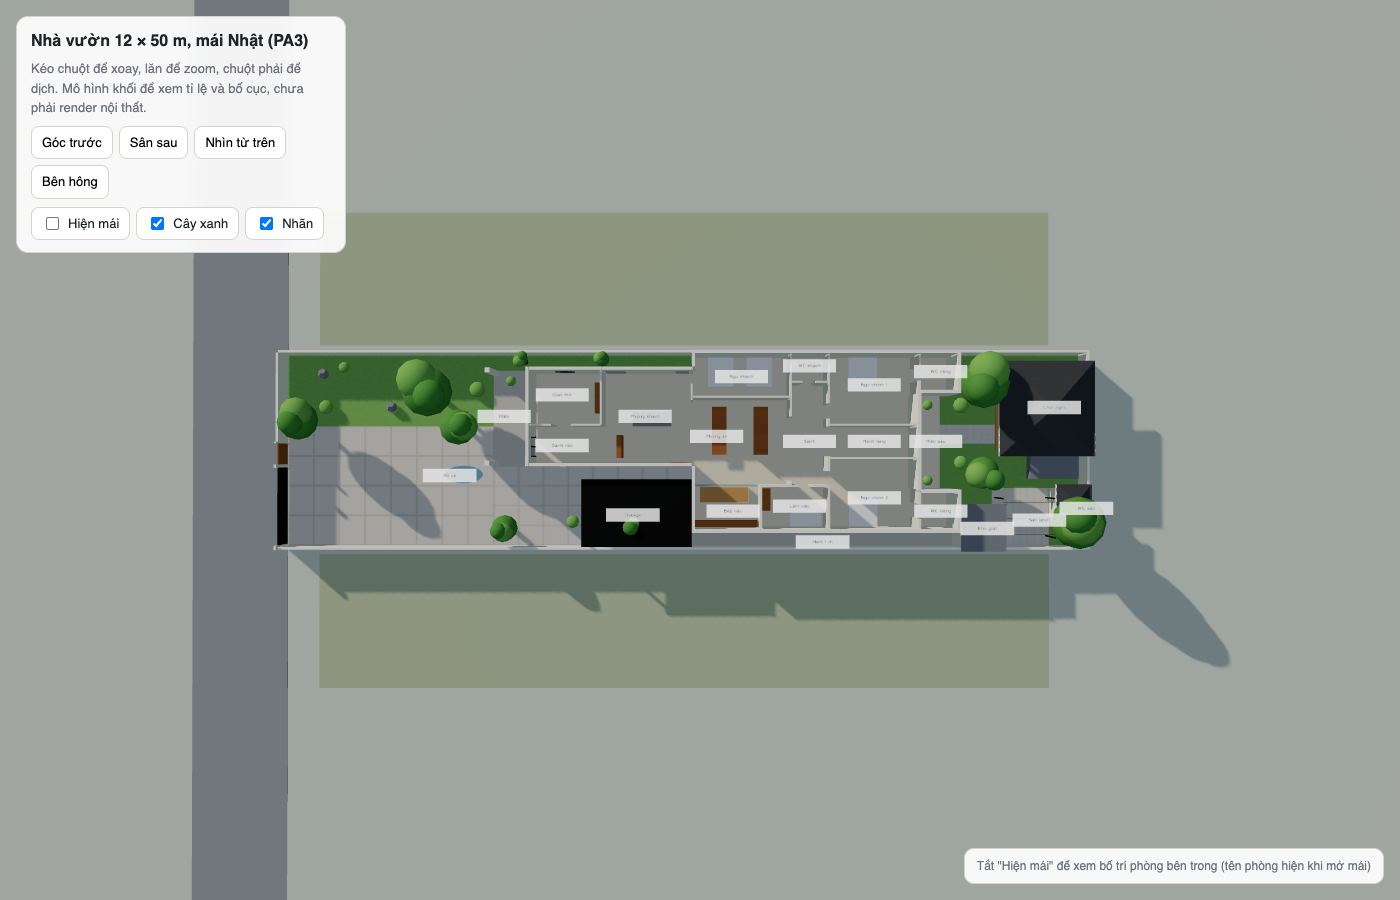
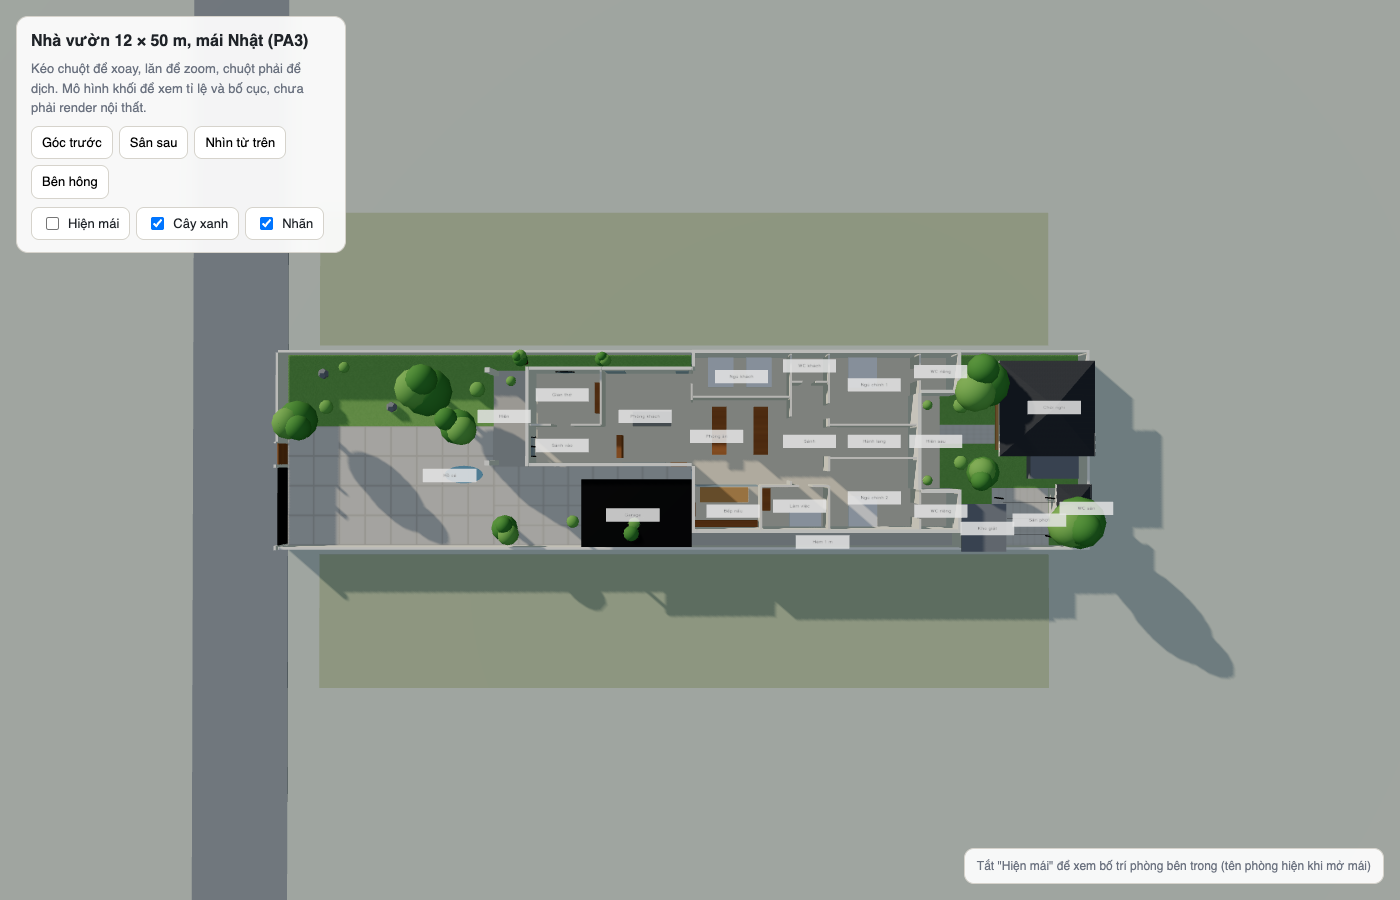
Chậu rửa 2 hố lệch 1,16 m, cửa phụ bếp ra garage, cập nhật dự toán

diff --git a/mat-bang-nha-12x50.html b/mat-bang-nha-12x50.html
@@ -83,7 +83,7 @@
       <h2 style="margin-top:0">Ý đồ thiết kế</h2>
       <ul>
         <li><b>Gian trước 6 × 12,5 m</b>, cách ranh trái 1 m, bên phải chừa sân 5 m. Hiên 2,5 m, rồi gian thờ 3,5 × 4,5 m bên trái là phòng đầu tiên của nhà, sảnh vào 2,5 × 4,5 m bên phải có cửa chính 1,2 m và tủ giày. Sau đó là phòng khách 6 × 5,5 m: sofa quay về kệ TV tường trái, vách lam gỗ phía sau sảnh vào chắn tầm nhìn xuyên nhà, cửa kính lớn bên phải nhìn ra sân. Góc trái cuối phòng khách có cửa vào phòng ngủ khách. Góc phải cuối phòng khách có cửa phụ 1 m ra garage có mái che. Bàn thờ đặt sát tường trong nhìn thẳng ra đường, có cửa sổ tròn bên hông và ô lam gỗ phía trước. Toàn bộ gian trước không có WC.</li>
-        <li><b>Gian ngang 11 × 13,8 m</b> chừa hẻm 1 m bên phải. Giữa nhà là phòng ăn 5,4 × 6 m dưới giếng trời. Bên trái là phòng ngủ khách 6 × 2,8 m, 2 giường đôi 1,6 × 2 m kê ngang phòng, đầu cả hai giường tựa tường ranh trái là tường đặc, không cửa sổ, không giáp WC. Chân giường quay về tường phòng ăn, không hướng ra cửa, cửa sổ hay WC. Lối đi cuối giường 0,75 m, tab đầu giường dùng chung ở giữa. Cửa sổ tường trước nâng cao, mép dưới 1,9 m, để không nằm ngay sau đầu giường. Cửa phòng mở từ phòng khách, ở góc trái đầu phòng, vào cửa là thấy cạnh dài giường chứ không đụng chân giường. Tủ áo đặt cạnh cửa. Có giếng trời nhỏ 0,8 × 0,6 m trên lối đi vì cửa sổ tường trước giờ chỉ còn 0,7 m. Bên phải là bếp nấu 2,8 × 4,2 m tựa tường hẻm, ngăn với phòng ăn bằng vách kính lùa và đảo 3 m, có cửa phụ ra hẻm. Sau bếp nấu là phòng làm việc 2,8 × 4,1 m, có bàn làm việc và 1 giường đơn cho người ngủ lại. Hàng giữa: WC khách mở cửa ra sảnh, rồi sảnh. Hàng sau: ngủ chính 1 và 2 mỗi phòng 5,5 × 4,5 m, 24,8 m² trọn vẹn, cửa mở từ sảnh chính. Giữa hai phòng là hành lang rộng 2 m, cuối có cửa 2 cánh 1,6 m ra hiên sau. Đây là lối chính trong nhà đi ra sân sau, đủ rộng để bưng đồ ăn ra chòi khi có tiệc.</li>
+        <li><b>Gian ngang 11 × 13,8 m</b> chừa hẻm 1 m bên phải. Giữa nhà là phòng ăn 5,4 × 6 m dưới giếng trời. Bên trái là phòng ngủ khách 6 × 2,8 m, 2 giường đôi 1,6 × 2 m kê ngang phòng, đầu cả hai giường tựa tường ranh trái là tường đặc, không cửa sổ, không giáp WC. Chân giường quay về tường phòng ăn, không hướng ra cửa, cửa sổ hay WC. Lối đi cuối giường 0,75 m, tab đầu giường dùng chung ở giữa. Cửa sổ tường trước nâng cao, mép dưới 1,9 m, để không nằm ngay sau đầu giường. Cửa phòng mở từ phòng khách, ở góc trái đầu phòng, vào cửa là thấy cạnh dài giường chứ không đụng chân giường. Tủ áo đặt cạnh cửa. Có giếng trời nhỏ 0,8 × 0,6 m trên lối đi vì cửa sổ tường trước giờ chỉ còn 0,7 m. Bên phải là bếp nấu 2,8 × 4,2 m tựa tường hẻm, ngăn với phòng ăn bằng vách kính lùa và đảo 3 m, có cửa phụ mở ra đuôi garage để xách đồ từ xe vào thẳng bếp. Sau bếp nấu là phòng làm việc 2,8 × 4,1 m, có bàn làm việc và 1 giường đơn cho người ngủ lại. Hàng giữa: WC khách mở cửa ra sảnh, rồi sảnh. Hàng sau: ngủ chính 1 và 2 mỗi phòng 5,5 × 4,5 m, 24,8 m² trọn vẹn, cửa mở từ sảnh chính. Giữa hai phòng là hành lang rộng 2 m, cuối có cửa 2 cánh 1,6 m ra hiên sau. Đây là lối chính trong nhà đi ra sân sau, đủ rộng để bưng đồ ăn ra chòi khi có tiệc.</li>
         <li><b>Hai WC riêng 2,4 × 2,6 m</b> nhô ra phía hiên sau, nằm trong mép mái đua sẵn có nên không phải làm thêm mái. Mỗi WC có ba mặt ngoài, cửa sổ hai phía, rất thoáng. Hiên sau thu lại còn 5,8 m nằm giữa hai WC, thành một góc ngồi kín đáo hơn. Mỗi phòng master có cửa kính ra thẳng hiên.</li>
         <li><b>4 WC</b>: WC riêng 1 và 2 cho hai phòng ngủ chính, nhô ra phía hiên sau. WC khách 2,3 × 1,9 m đứng riêng, cửa mở ra sảnh, khách và cả nhà đều dùng được. WC sân vườn 2 × 2,2 m cạnh chòi và BBQ, dùng khi tiệc ngoài trời. Không WC nào nằm giữa nhà hay gần gian thờ.</li>
         <li><b>Hẻm 1 m</b> chạy từ sân bên phải gian trước ra thẳng sân sau. Đủ cho người đi lại thoải mái, mang đồ, đẩy xe rác hoặc máy cắt cỏ ra sau mà không phải đi xuyên nhà. Dắt xe máy thì hơi chật, cần khoảng 1,2 m.</li>
@@ -126,7 +126,7 @@
         <tr><td>Gian thờ</td><td>Bàn thờ gỗ nguyên khối kiểu phẳng 2 × 0,6 m, vách sau ốp gỗ hoặc tấm CNC đơn giản, tủ thấp hai bên</td><td>Đèn vàng ấm hắt vách, cửa sổ tròn lấy sáng, không hoa văn cầu kỳ</td></tr>
         <tr><td>Sảnh vào</td><td>Tủ giày âm tường, ghế băng gỗ, gương</td><td>Sàn đá xám nhạt để phân biệt với sàn gỗ phòng khách</td></tr>
         <tr><td>Phòng khách</td><td>Sofa 3 chỗ vải xám, bàn trà tròn gỗ, kệ TV thấp treo tường, góc đọc sách 2 ghế bành cạnh cửa kính bên trái</td><td>Mảng tường TV ốp gỗ sồi hoặc sơn hiệu ứng bê tông, không kệ trang trí</td></tr>
-        <tr><td>Bếp + ăn</td><td>Bếp nấu chữ I dọc tường hẻm, bếp lửa và chậu rửa cách nhau 1 m trên cùng một mặt, tủ lạnh cuối dãy; đảo 3 × 0,9 m làm quầy buffet; 2 bàn ăn gỗ sồi 3 × 0,9 m giống hệt nhau, tổng 16 ghế (ghế xếp gọn được thì tốt)</td><td>Cánh tủ phẳng trắng kem, mặt đá thạch anh trắng liền khối, hút mùi âm đảo, đèn thả 3 bóng trên đảo</td></tr>
+        <tr><td>Bếp + ăn</td><td>Bếp nấu chữ I dài 4 m dọc tường hẻm, mặt đá sâu 60 cm. Từ cửa vào: chậu inox 2 hố lệch dài 1,16 m (hố lớn 76 × 45 cm, sâu 25 cm, đặt nằm được chảo 32 cm và khay nướng; hố nhỏ 33 cm để rửa rau, tráng ly), đặt dưới cửa sổ, vòi rút dây, tủ dưới chậu 1,2 m có thùng rác phân loại; mặt sơ chế 0,9 m; bếp từ 70 cm; tủ lạnh cuối dãy; đảo 3 × 0,9 m làm quầy buffet; 2 bàn ăn gỗ sồi 3 × 0,9 m giống hệt nhau, tổng 16 ghế (ghế xếp gọn được thì tốt)</td><td>Cánh tủ phẳng trắng kem, mặt đá thạch anh trắng liền khối, hút mùi âm đảo, đèn thả 3 bóng trên đảo</td></tr>
         <tr><td>Ngủ chính 1, 2</td><td>Giường 1,8 m bệt thấp, tủ âm tường kịch trần, 2 tab đầu giường, WC riêng 2,2 × 2,4 có sen đứng kính</td><td>Đèn thả 2 bên thay đèn bàn, rèm 2 lớp màu xám nhạt</td></tr>
         <tr><td>Phòng khách ngủ, phòng làm việc</td><td>Phòng khách ngủ: 2 giường đôi 1,6 m. Phòng làm việc: bàn 1,4 m, ghế, giường đơn 1 m, kệ sách treo tường</td><td>Cùng một bộ vật liệu để nhà đồng bộ</td></tr>
         <tr><td>WC (4 phòng)</td><td>Gạch lớn 60×120 xám nhạt, lavabo đặt bàn, gương tròn</td><td>Vòi sen đen mờ, kính cường lực không khung, quạt hút + cửa sổ</td></tr>
@@ -143,7 +143,7 @@
       <tbody>
         <tr><td>Bếp không đặt ở giữa nhà (trung cung)</td><td><b>Đã sửa</b></td><td>Tâm nhà giờ là phòng ăn dưới giếng trời. Bếp nấu dời sang góc phải, tựa tường hẻm.</td></tr>
         <tr><td>Bếp không đối diện cửa chính</td><td>Đạt</td><td>Bếp nấu lệch hẳn sang phải, từ cửa chính không nhìn thấy bếp lửa.</td></tr>
-        <tr><td>Lửa và nước không đối diện nhau</td><td>Đạt</td><td>Bếp lửa và chậu rửa cùng một mặt tủ, cách nhau 1 m. Đảo bếp không đặt bếp hay chậu.</td></tr>
+        <tr><td>Lửa và nước không đối diện nhau</td><td>Đạt</td><td>Bếp lửa và chậu rửa cùng một mặt tủ, cách nhau 0,9 m. Bếp lửa đặt xa cửa phụ để gió không lùa vào lửa. Đảo bếp không đặt bếp hay chậu.</td></tr>
         <tr><td>Bàn thờ tránh WC, bếp, không đặt sau phòng ngủ</td><td>Đạt</td><td>Sau lưng bàn thờ là phòng khách. WC gần nhất cách hơn 11 m.</td></tr>
         <tr><td>Bàn thờ không nhìn thẳng ra cửa sổ lớn</td><td><b>Đã sửa</b></td><td>Cửa sổ trước gian thờ thay bằng lam gỗ. Giữ cửa sổ tròn bên hông để lấy sáng.</td></tr>
         <tr><td>Cửa phòng thờ không đối diện cửa chính</td><td>Đạt</td><td>Cửa phòng thờ mở vuông góc với cửa chính.</td></tr>
@@ -178,7 +178,7 @@
         <li><b>Cửa sổ ra hẻm 1 m:</b> theo quy định chung, tường cách ranh dưới 2 m chỉ được mở cửa sổ cao (mép dưới từ 2 m) hoặc lam thoáng. Tao vẽ WC khách, ngủ 4 và WC riêng 2 theo kiểu này.</li>
         <li><b>Phòng ngủ khách</b> chỉ còn cửa sổ cao 0,7 m ở tường trước vì gian trước đã dời sát trái. Tao thêm giếng trời nhỏ để bù sáng và thoáng.</li>
         <li><b>WC khách</b> cách phòng khách khoảng 10 m (qua bếp và sảnh). Nếu muốn gần hơn thì đặt ở góc sau phải phòng khách, nhưng khi đó WC nằm cùng gian với gian thờ, tao không khuyến khích.</li>
-        <li><b>Dự toán thô</b> (giá 2026, trọn gói hoàn thiện cơ bản): nhà chính ~256 m² có mái × 7–9 triệu ≈ 1,8–2,3 tỷ. Cộng garage, hàng rào 124 m, chòi, sân vườn thêm khoảng 350–600 triệu. Con số này chỉ để định hướng.</li>
+        <li><b>Dự toán thô</b> (giá 2026, đất có sẵn, chưa tính san lấp): nhà chính khoảng 436 m² quy đổi, gồm sàn, móng 40%, mái ngói 40% và hiên 50%, được khoảng 2,1–3,0 tỷ. Cộng garage, chòi, WC sân, kho giặt, hàng rào và cổng, sân vườn, nội thất rời, thiết kế và xin phép thì tổng khoảng 2,95 tỷ (tiết kiệm), 3,7 tỷ (tiêu chuẩn), 4,7 tỷ (cao cấp). Nên dự phòng thêm 10%.</li>
       </ul>
     </div>
   </div>
@@ -316,9 +316,9 @@ const rooms=[
     [0.15,0.9,1.65,2.4].forEach(o=>{rect(g,m,d1-0.45,d1,3.3+o,3.3+o+.45,{fill:'#fff',stroke:'#a67c52',rx:2});rect(g,m,d1+0.9,d1+1.35,3.3+o,3.3+o+.45,{fill:'#fff',stroke:'#a67c52',rx:2});});
     label(g,m,d1+0.45,4.8,name,{size:9,fill:'#5b3a1a',rot:-90}); }
   table(26.75,'BÀN A · 8'); table(29.35,'BÀN B · 8');
-  rect(g,m,25.6,29.6,10.4,10.95,{fill:'#c9b27a',opacity:.8});        // tủ bếp dọc hẻm
-  rect(g,m,25.8,26.6,10.45,10.9,{fill:'#b45f2e'}); label(g,m,26.2,10.2,'bếp lửa',{size:8,fill:'#8a3b12'});
-  rect(g,m,27.6,28.4,10.45,10.9,{fill:'#7cc4ff'}); label(g,m,28.0,10.2,'chậu rửa',{size:8,fill:'#1d5f8a'});
+  rect(g,m,25.6,29.6,10.35,10.95,{fill:'#c9b27a',opacity:.8});        // tủ bếp dọc hẻm
+  rect(g,m,27.8,28.5,10.4,10.9,{fill:'#b45f2e'}); label(g,m,28.15,10.15,'bếp lửa',{size:8,fill:'#8a3b12'});
+  rect(g,m,25.75,26.51,10.42,10.9,{fill:'#7cc4ff',stroke:'#1d5f8a','stroke-width':1}); rect(g,m,26.56,26.89,10.42,10.9,{fill:'#a9d6f5',stroke:'#1d5f8a','stroke-width':1}); label(g,m,26.3,10.15,'chậu 2 hố 1,16 m',{size:8,fill:'#1d5f8a'});
   rect(g,m,29.0,29.6,10.25,10.95,{fill:'#e5e7eb',stroke:'#b8b3a8'}); 
   rect(g,m,26.0,29.0,8.35,9.25,{fill:'#d9c6a5',stroke:'#8b5a2b','stroke-width':1,rx:2}); label(g,m,27.5,8.9,'ĐẢO 3 m · buffet',{size:9,fill:'#5b3a1a'});
   function bed(d1,d2,w1,w2,head){rect(g,m,d1,d2,w1,w2,F); const h=0.35; if(head==='w0')rect(g,m,d1+0.1,d2-0.1,w1,w1+h,{fill:'#e5e7eb',rx:2}); if(head==='w1')rect(g,m,d1+0.1,d2-0.1,w2-h,w2,{fill:'#e5e7eb',rx:2}); if(head==='d1')rect(g,m,d2-h,d2,w1+0.1,w2-0.1,{fill:'#e5e7eb',rx:2}); if(head==='ds')rect(g,m,d1,d1+h,w1+0.1,w2-0.1,{fill:'#e5e7eb',rx:2});}
@@ -382,7 +382,7 @@ const rooms=[
   door(15.5,5.2,15.5,6.4);
   door(17,4.5,18.2,4.5);
   door(25.5,1.2,25.5,2.0); door(32.0,8.2,32.8,8.2);   // ngủ khách mở từ phòng khách, phòng làm việc
-  door(26.8,11.0,27.4,11.0);                                 // cửa phụ bếp ra hẻm
+  door(25.5,9.3,25.5,10.1);                                  // cửa phụ bếp ra garage
   win(25.7,8.2,29.5,8.2);                                    // vách kính lùa bếp nấu
   door(32.2,1.9,33.0,1.9);
   door(33.8,3.2,33.8,4.1); door(33.8,7.3,33.8,8.2);       // cửa 2 master từ sảnh
@@ -393,8 +393,8 @@ const rooms=[
   label(g,m,21.6,5.8,'lam gỗ',{size:8,fill:'#8b5a2b',rot:-90});
   el('circle',{cx:m.x(17.7),cy:m.y(1.0),r:.55*m.S,fill:'#fff',stroke:'#7cc4ff','stroke-width':3},g);
   win(21.3,7.0,23.9,7.0); door(24.2,7.0,25.2,7.0);   // cửa phụ từ garage win(20.2,1.0,21.4,1.0); win(24.5,1.0,25.3,1.0); win(25.5,7.2,25.5,8.0);
-  el('line',{x1:m.x(25.5),y1:m.y(0.15),x2:m.x(25.5),y2:m.y(0.85),stroke:'#7cc4ff','stroke-width':5,'stroke-dasharray':'4 2'},g); label(g,m,25.1,0.5,'cửa sổ cao',{size:8,fill:'#1d5f8a',rot:-90}); win(25.5,9.5,25.5,10.8);
-  win(27.8,11.0,29.2,11.0); win(30.6,11.0,31.4,11.0); win(32,11.0,33.2,11.0); win(37.4,11.0,38.8,11.0); win(40.0,11.0,41.2,11.0);
+  el('line',{x1:m.x(25.5),y1:m.y(0.15),x2:m.x(25.5),y2:m.y(0.85),stroke:'#7cc4ff','stroke-width':5,'stroke-dasharray':'4 2'},g); label(g,m,25.1,0.5,'cửa sổ cao',{size:8,fill:'#1d5f8a',rot:-90}); win(25.5,10.3,25.5,10.9);
+  win(25.8,11.0,26.9,11.0); win(30.6,11.0,31.4,11.0); win(32,11.0,33.2,11.0); win(37.4,11.0,38.8,11.0); win(40.0,11.0,41.2,11.0);
   win(41.7,0.5,41.7,2.1); win(41.7,8.9,41.7,10.5); win(40.0,2.6,40.9,2.6); win(40.0,8.4,40.9,8.4);   // cửa sổ WC riêng
   win(39.3,2.9,39.3,4.3); win(39.3,6.7,39.3,8.1);   // cửa kính master ra hiên
 

diff --git a/3d-nha-12x50.html b/3d-nha-12x50.html
@@ -184,8 +184,8 @@ box(39.3-T,39.3,2.6,8.4,0,H,M.wall,house);
 box(39.3,41.7,2.6-T,2.6,0,H,M.wall,house); box(41.7-T,41.7,0,2.6,0,H,M.wall,house); box(39.3,41.7,8.4,8.4+T,0,H,M.wall,house); box(41.7-T,41.7,8.4,11.0,0,H,M.wall,house);
 function win(d,w1,w2,y0=0.9,y1=2.4){box(d-0.03,d+0.03,w1,w2,y0,y1,M.glass,house,false);box(d-0.04,d+0.04,w1,w1+0.05,y0,y1,M.black,house,false);box(d-0.04,d+0.04,w2-0.05,w2,y0,y1,M.black,house,false);}
 function winZ(w,d1,d2,y0=2.0,y1=2.7){box(d1,d2,w-0.03,w+0.03,y0,y1,M.glass,house,false);}
-win(25.5,0.15,0.85,1.9+0.15,2.6+0.15); win(25.5,9.5,10.8);
-winZ(11.0,27,29); winZ(11.0,32,33.2); winZ(11.0,37.4,38.8); winZ(11.0,40,41.2);            // cửa sổ cao ra hẻm
+win(25.5,0.15,0.85,1.9+0.15,2.6+0.15); win(25.5,10.3,10.9); box(25.5-0.02,25.5+T+0.02,9.3,10.1,0,2.3,M.wood,house,false);   // cửa phụ bếp ra garage
+winZ(11.0,25.8,26.9); winZ(11.0,32,33.2); winZ(11.0,37.4,38.8); winZ(11.0,40,41.2);            // cửa sổ cao ra hẻm
 win(41.7,0.5,2.1,1.6,2.5); win(41.7,8.9,10.5,1.6,2.5); win(39.3,2.9,4.3,0.2,2.5); win(39.3,6.7,8.1,0.2,2.5);
 box(39.3-0.02,39.3+0.02,4.7,6.3,0,2.3,M.wood,house,false);
 

diff --git a/BOI-CANH-DU-AN.md b/BOI-CANH-DU-AN.md
@@ -15,7 +15,7 @@
 - Garage 6,7 x 4,9 m có mái thép nối mái nhà, sát hông phải gian trước; cửa phụ từ garage vào phòng khách.
 - Gian trước 6 x 12,5 m, cách ranh trái 1 m, sân bên phải 5 m: hiên 2,5; gian thờ 4,5 x 3,5 (phòng đầu tiên) + sảnh vào 4,5 x 2,5; lam gỗ bình phong; phòng khách 5,5 x 6.
 - Gian ngang 11 x 13,8 m, hẻm 1 m bên phải thông ra sân sau.
-  - Hàng trước: ngủ khách 6 x 2,8, 2 giường đôi kê ngang, đầu tựa tường ranh, cửa mở từ phòng khách | phòng ăn 5,4 x 6 ở tâm nhà, giếng trời, 2 bàn 8 chỗ | bếp nấu 2,8 x 4,2 tựa tường hẻm + đảo buffet 3 m.
+  - Hàng trước: ngủ khách 6 x 2,8, 2 giường đôi kê ngang, đầu tựa tường ranh, cửa mở từ phòng khách | phòng ăn 5,4 x 6 ở tâm nhà, giếng trời, 2 bàn 8 chỗ | bếp nấu 2,8 x 4,2 tựa tường hẻm, chậu inox 2 hố lệch 1,16 m (hố lớn 76 x 45 sâu 25), cửa phụ ra garage, đảo buffet 3 m.
   - Hàng giữa: WC khách (cửa ra sảnh) | sảnh | phòng làm việc 2,8 x 4,1 có 1 giường đơn.
   - Hàng sau: ngủ chính 1 và 2 (5,5 x 4,5) | hành lang 2 m ra hiên sau.
   - 2 WC riêng 2,4 x 2,6 nhô ra sau dưới mái đua, hiên sau 5,8 m ở giữa.
